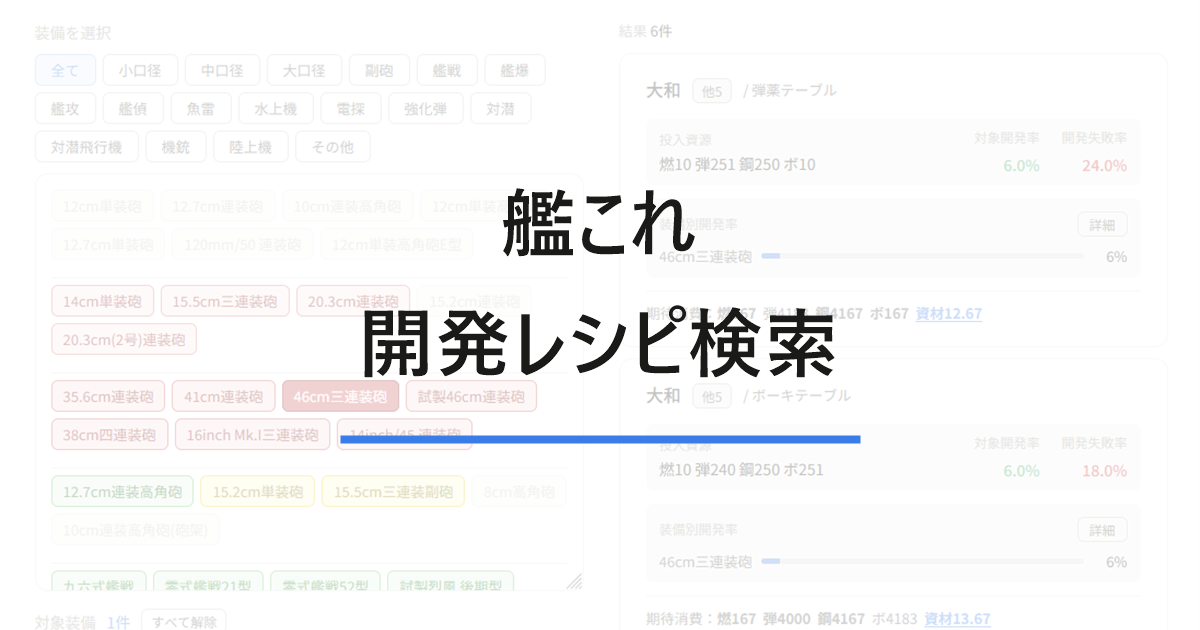
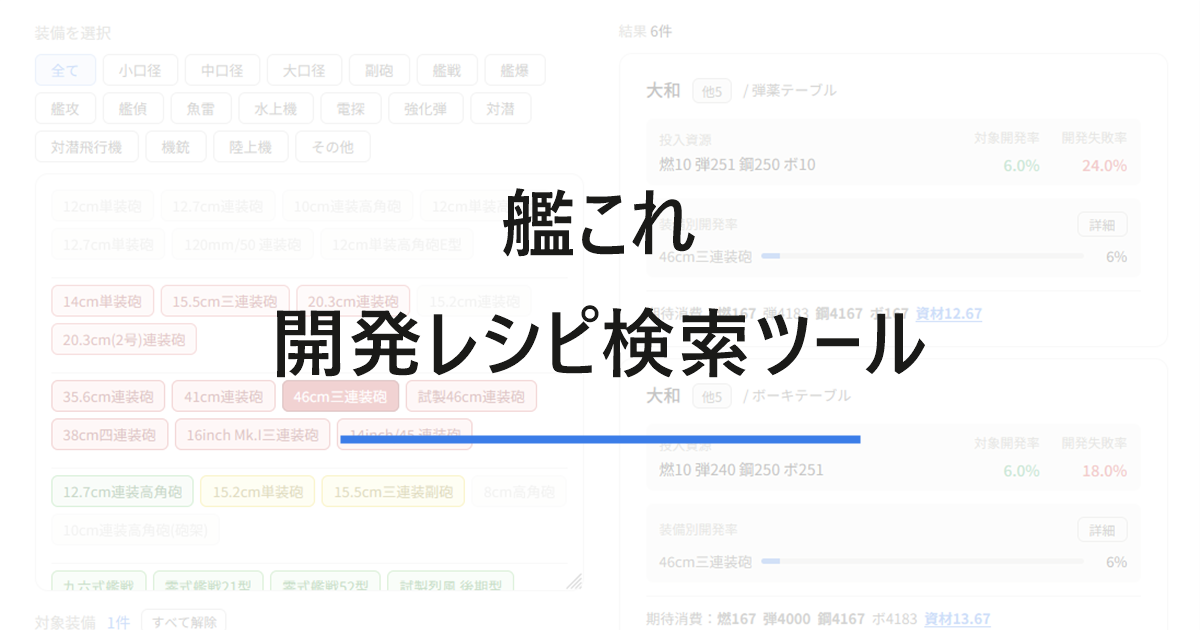
サイト名刷新、フッターバージョン更新（v0.2.0）

Changed region(s): [[0.2158, 0.4825, 0.7708, 0.6032]]

diff --git a/index.html b/index.html
@@ -5,12 +5,12 @@
     <meta name="viewport" content="width=device-width, initial-scale=1.0" />
     <link rel="icon" type="image/png" href="/favicon.png" />
 
-    <title>艦これ　開発レシピ検索</title>
+    <title>艦これ　開発レシピ検索ツール</title>
     <meta name="description" content="「艦これ」の装備開発レシピ検索ツールです。目当ての装備を選ぶと、開発できる秘書艦・投入資源の組み合わせを資材消費が少ない順に表示します。複数の装備を選択し最適なレシピを探すこともできます。" />
     <link rel="canonical" href="https://iora339.github.io/kc-dev-gen/" />
     <meta name="google-site-verification" content="eay_FJ4MMPWlBvnJWX3USnDPm6i3_xOoAnPixOgs4rE" />
 
-    <meta property="og:title" content="艦これ　開発レシピ検索" />
+    <meta property="og:title" content="艦これ　開発レシピ検索ツール" />
     <meta property="og:description" content="目当ての装備を開発するのに最適なレシピを検索できます。" />
     <meta property="og:type" content="website" />
     <meta property="og:url" content="https://iora339.github.io/kc-dev-gen/" />

diff --git a/src/App.tsx b/src/App.tsx
@@ -165,7 +165,7 @@ export default function App() {
 
   return (
     <div style={{ padding: "2rem", fontFamily: "var(--font-sans)", maxWidth: 1100, margin: "0 auto", minHeight: "100vh", boxSizing: "border-box", display: "flex", flexDirection: "column" }}>
-      <h1 style={{ fontSize: 22, fontWeight: 600, color: "var(--text-primary)", margin: "0 0 1.5rem" }}>艦これ　開発レシピ検索</h1>
+      <h1 style={{ fontSize: 22, fontWeight: 600, color: "var(--text-primary)", margin: "0 0 1.5rem" }}>艦これ　開発レシピ検索ツール</h1>
       <div className="main-grid" style={{ display: "grid", gap: "2rem", alignItems: "start" }}>
         <div>
           <EquipmentSelector
@@ -302,7 +302,7 @@ export default function App() {
         <p style={{ margin: 0, display: "flex", justifyContent: "flex-end", alignItems: "center", gap: 8 }}>
           <a href="https://github.com/iora339/kc-dev-gen" target="_blank" rel="noopener noreferrer" style={{ color: "inherit" }}>GitHub</a>
           <span style={{ color: "var(--text-muted)" }}>/</span>
-          <span>v0.1.1</span>
+          <span>v0.2.0</span>
         </p>
       </footer>
     </div>
